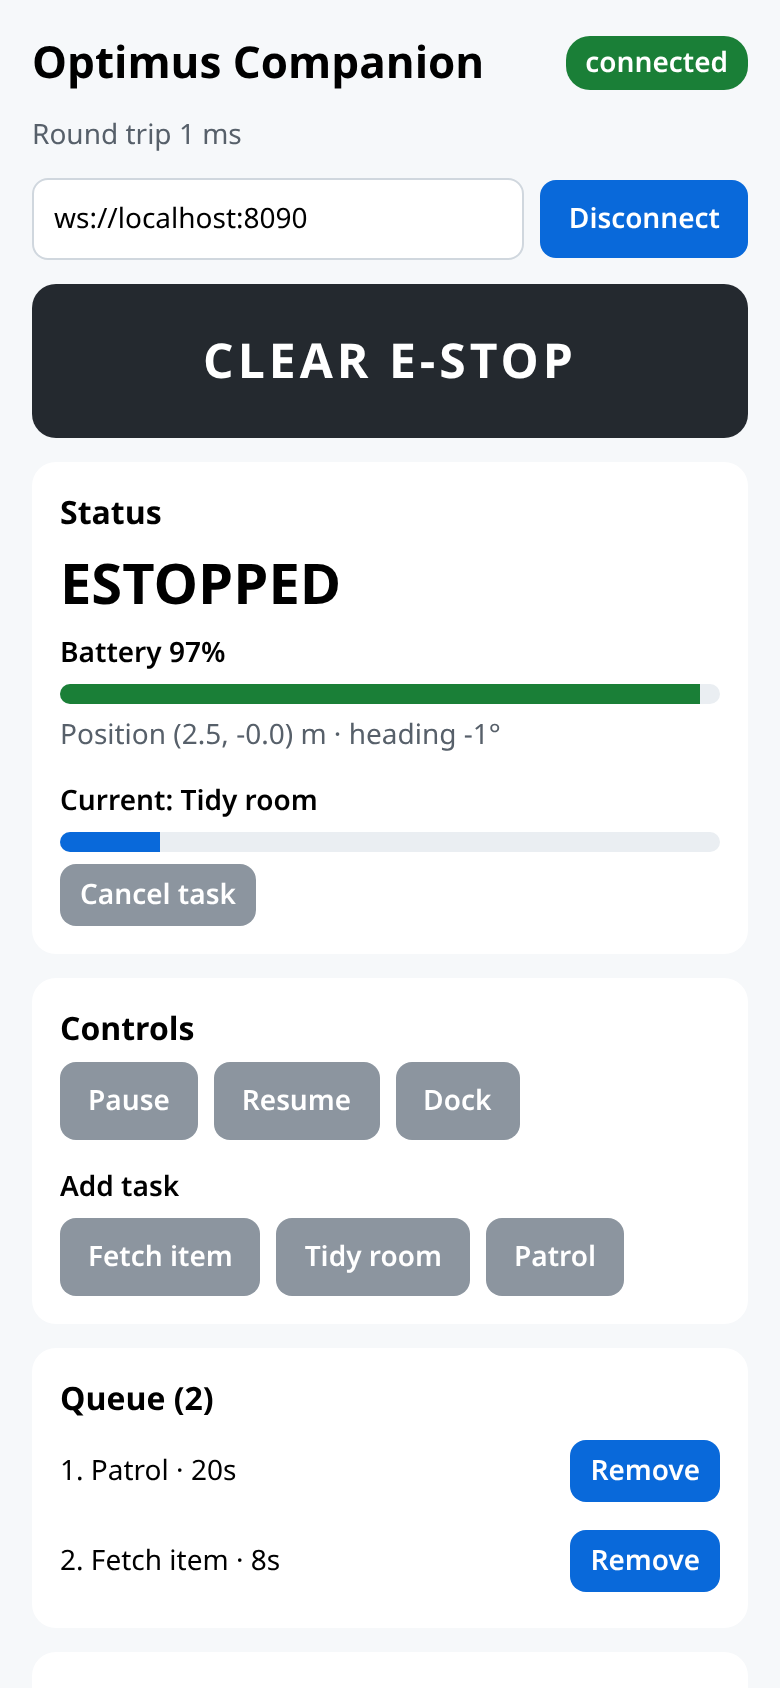
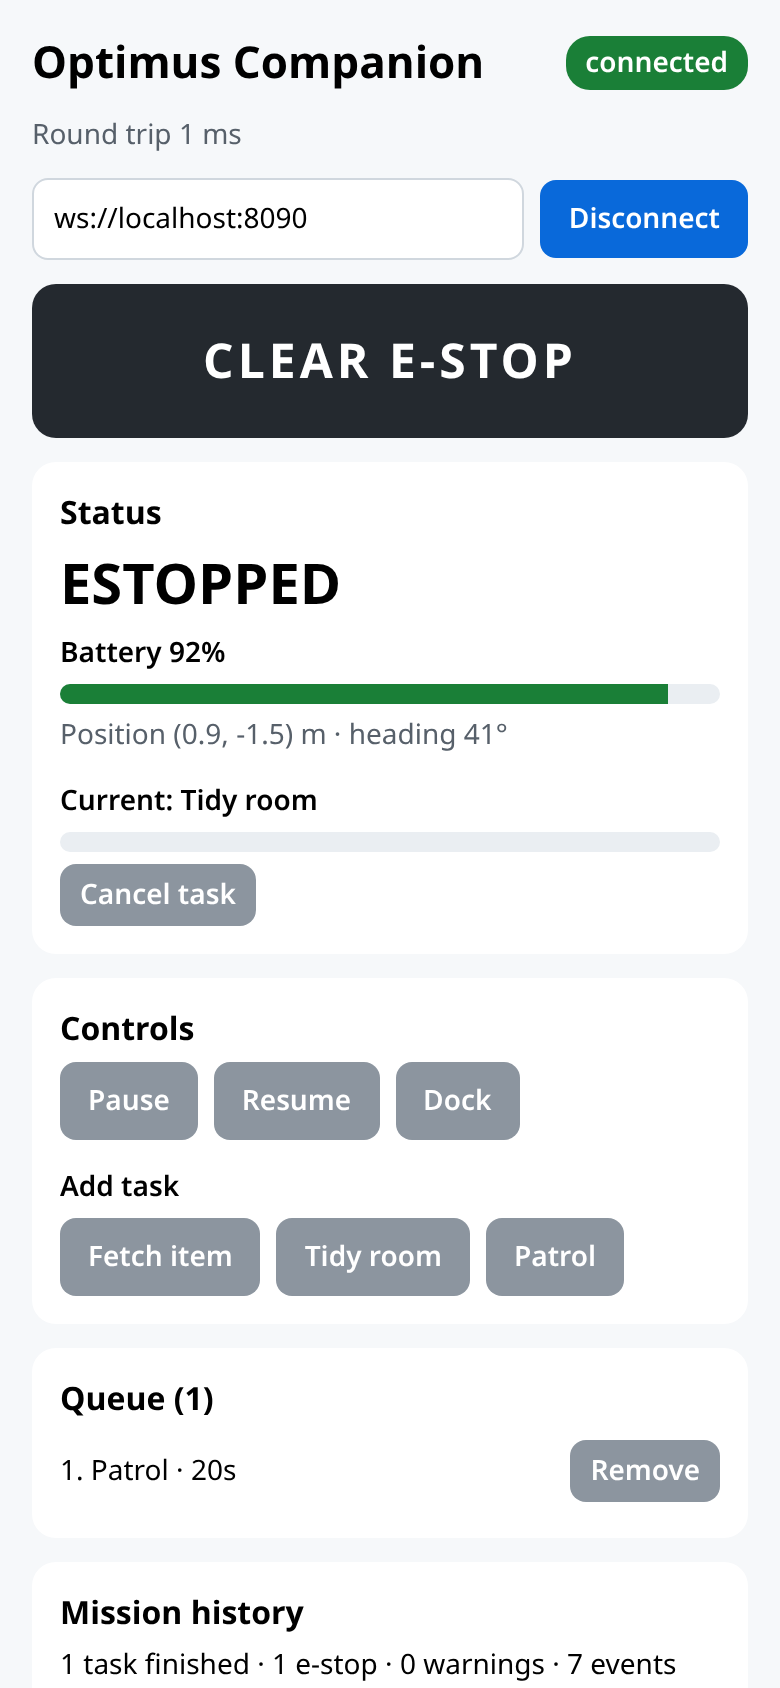
Fix plurals in mission history card; refresh screenshots from full-stack run

diff --git a/app/App.tsx b/app/App.tsx
@@ -242,14 +242,18 @@ function MissionHistory({ baseUrl, refreshKey }: { baseUrl: string; refreshKey: 
       {error && <Text style={styles.error}>Could not load history: {error}</Text>}
       {summary ? (
         <Text>
-          {summary.tasksFinished} tasks finished · {summary.estops} e-stops · {summary.byLevel.warn} warnings ·{' '}
-          {summary.total} events
+          {plural(summary.tasksFinished, 'task')} finished · {plural(summary.estops, 'e-stop')} ·{' '}
+          {plural(summary.byLevel.warn, 'warning')} · {plural(summary.total, 'event')}
         </Text>
       ) : (
         !error && <Text style={styles.muted}>Loading…</Text>
       )}
     </View>
   );
+}
+
+function plural(n: number, word: string): string {
+  return `${n} ${word}${n === 1 ? '' : 's'}`;
 }
 
 function canPause(mode: RobotMode | null): boolean {
